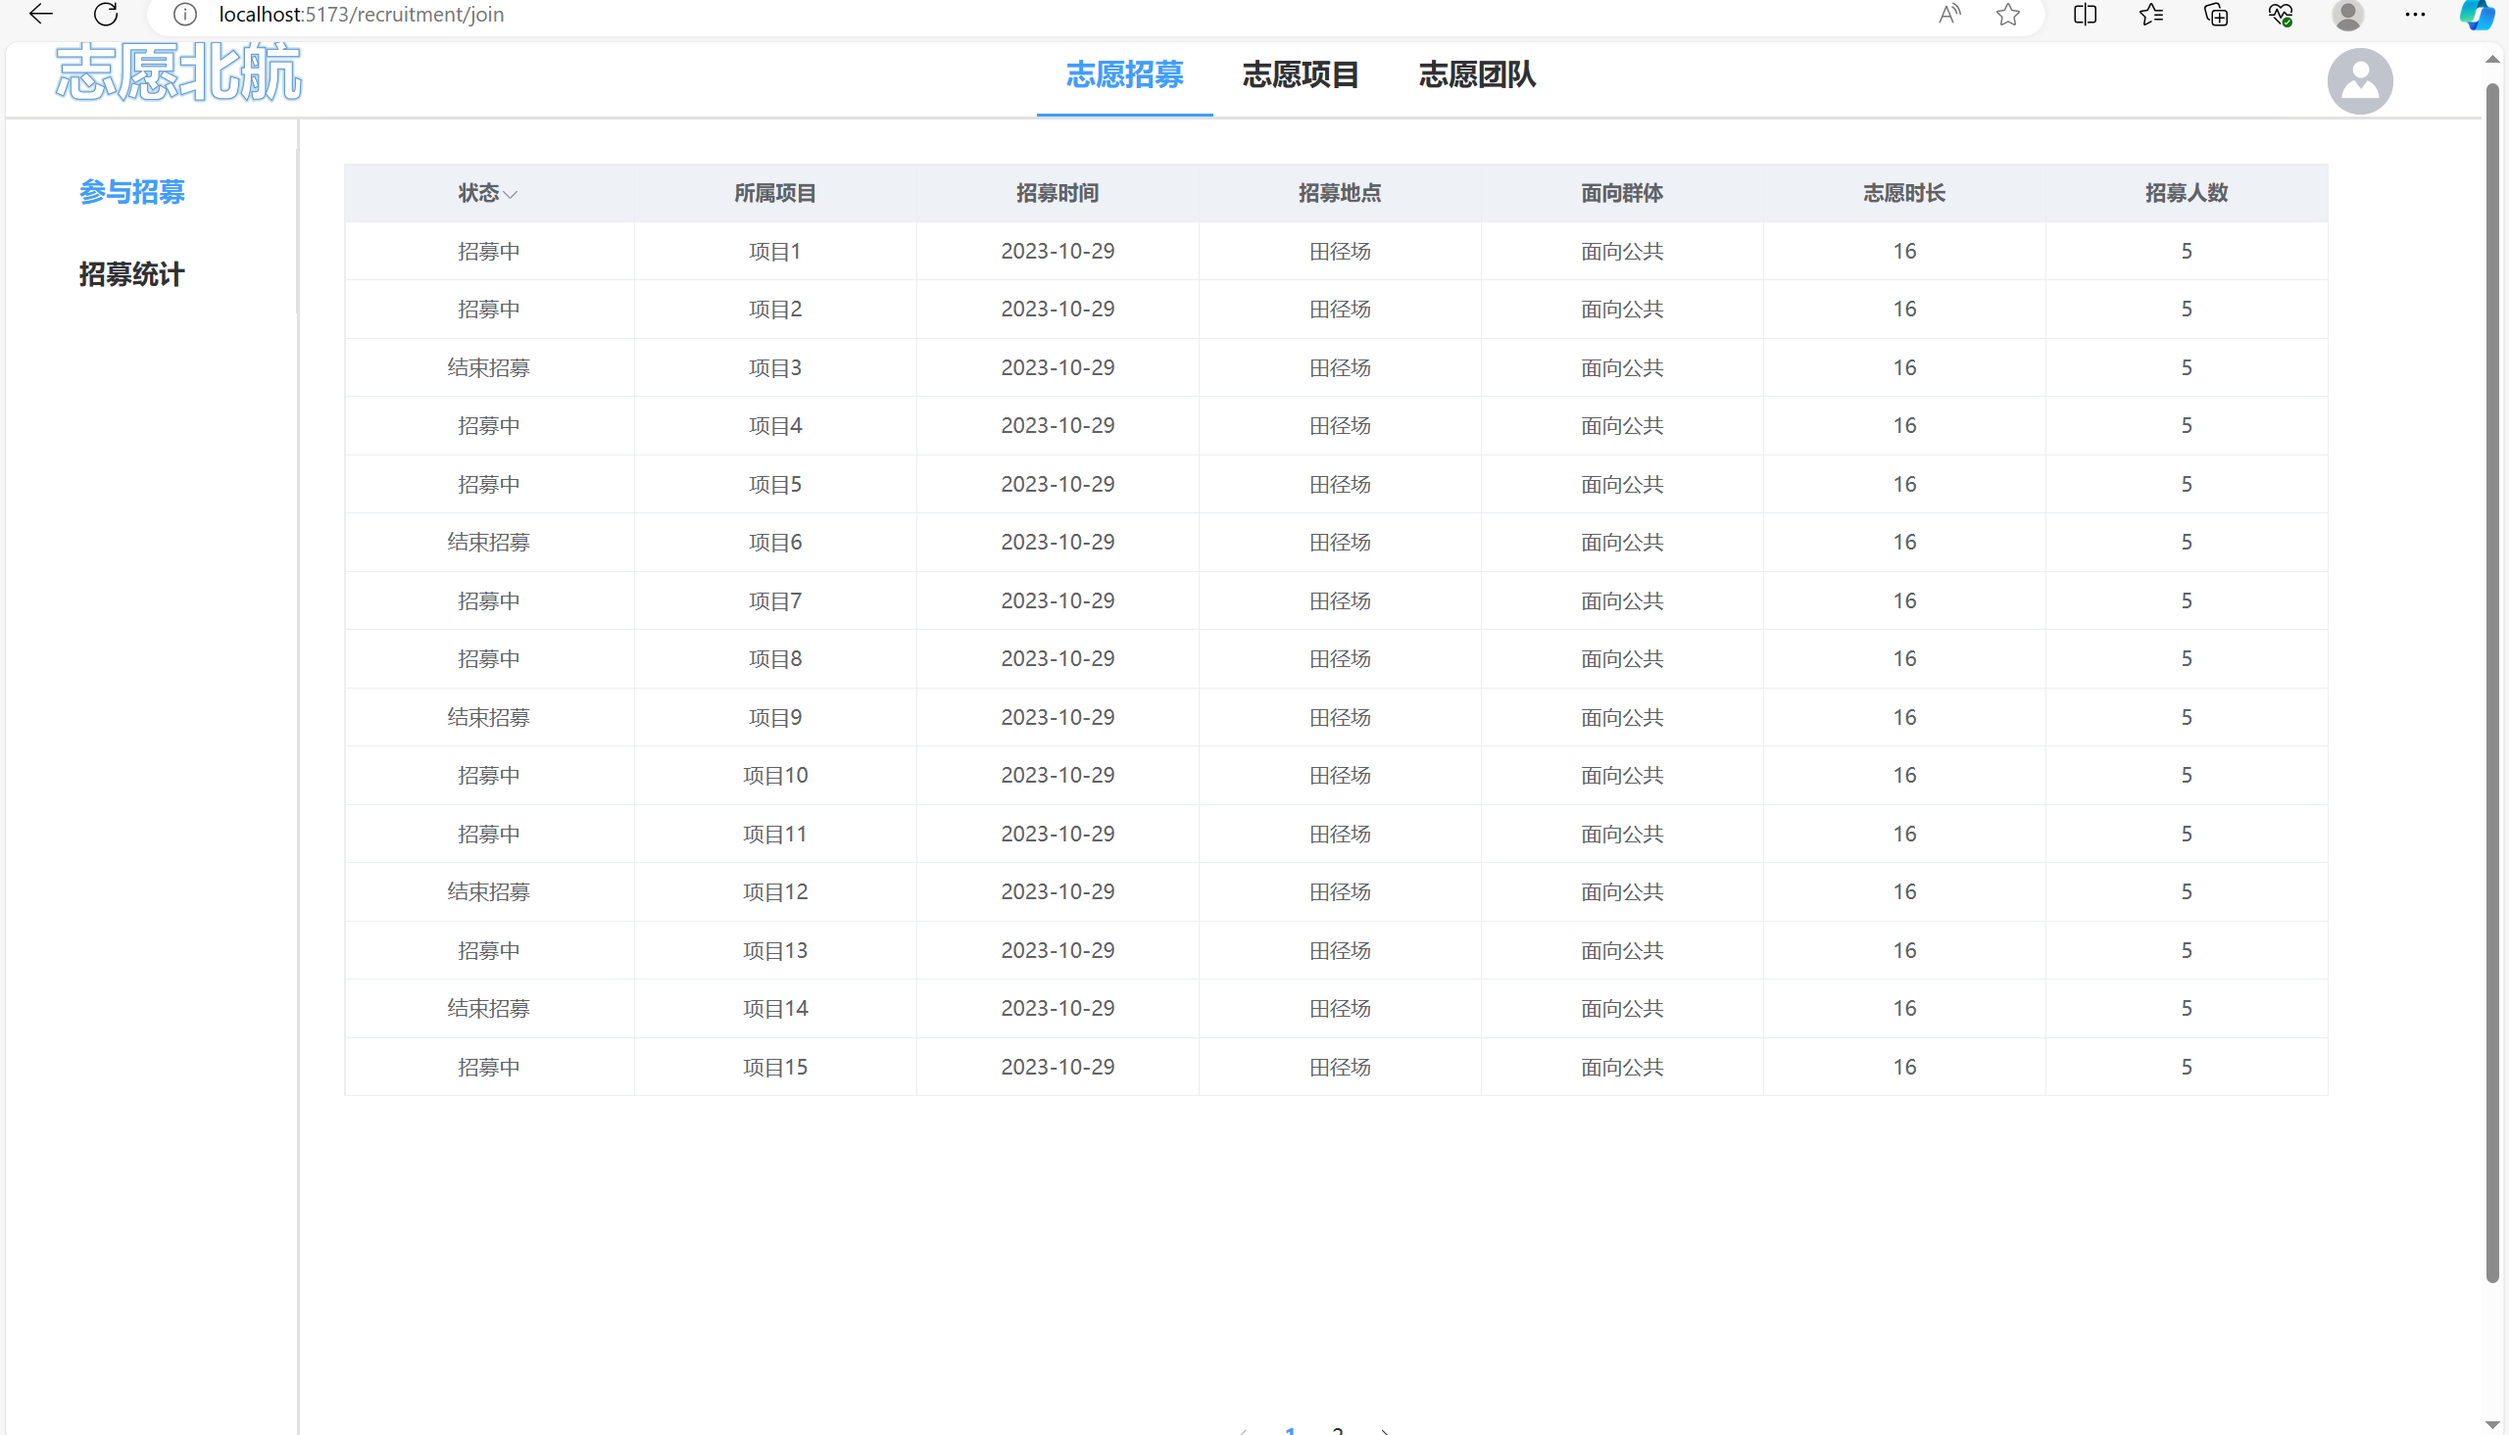
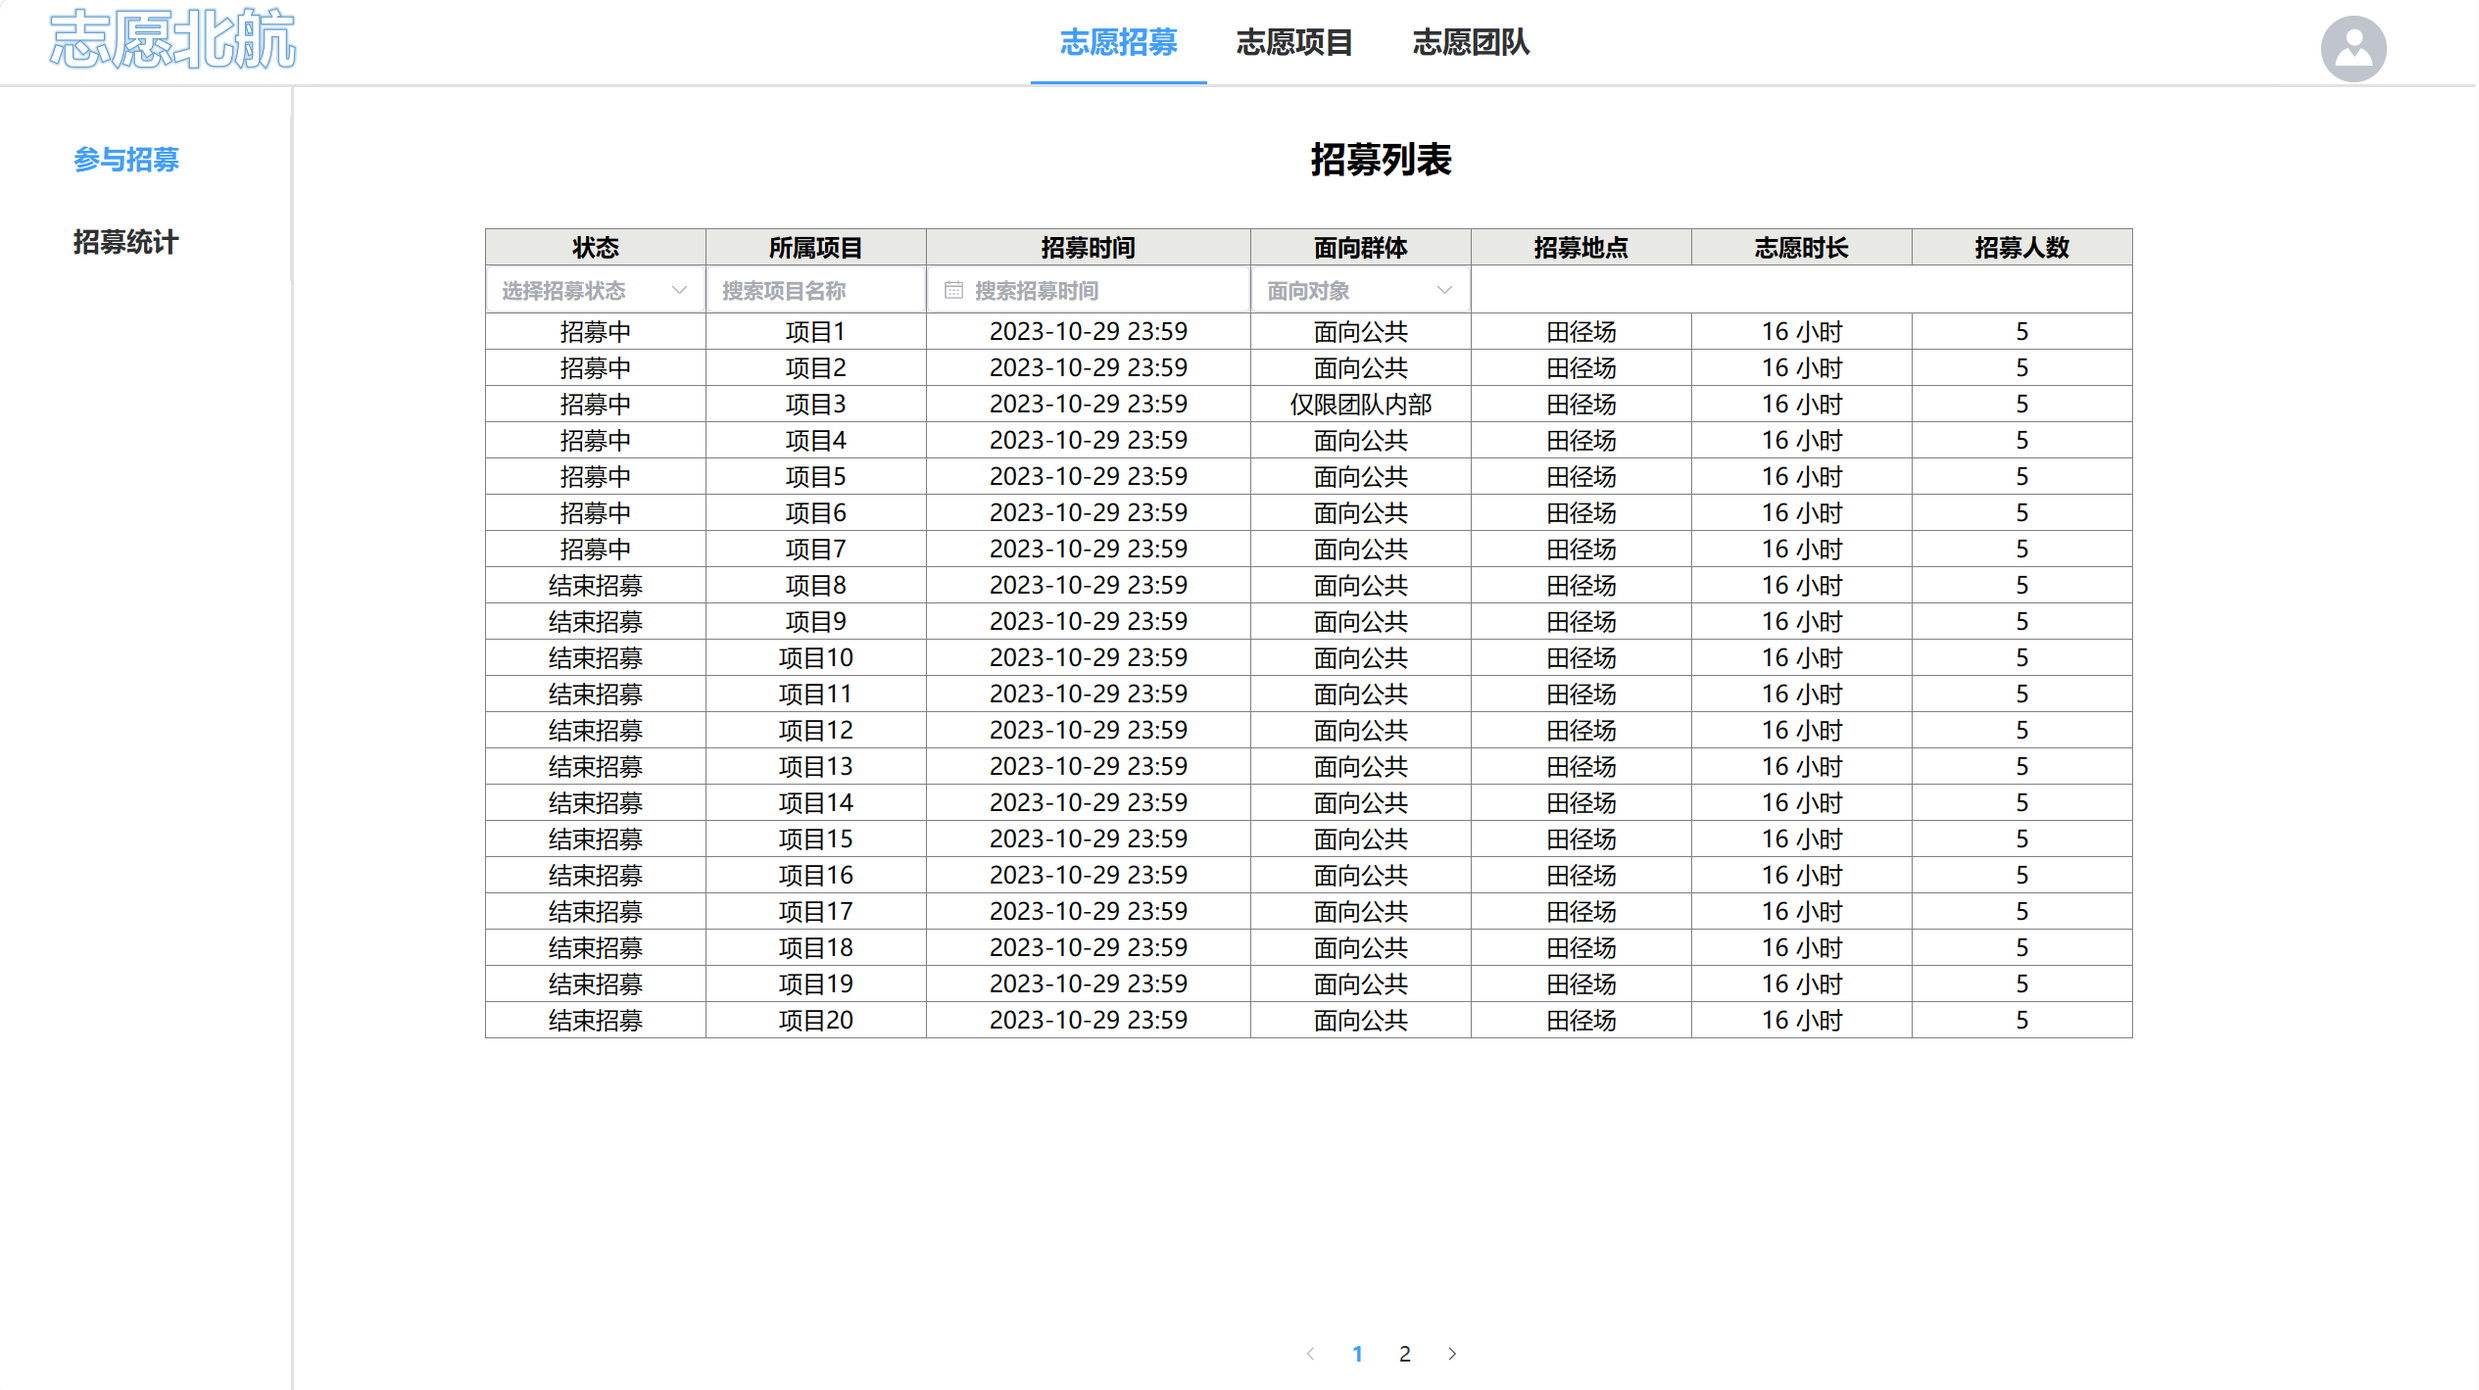
重构了“参加招募页”的样式（尚未美化），正在实现过滤功能

diff --git a/frontend/src/views/JoinRecruitmentPage.vue b/frontend/src/views/JoinRecruitmentPage.vue
@@ -12,33 +12,63 @@
         </div>
         <div class="content-container">
             <div class="table-container">
+                <h2 class="title">招募列表</h2>
                 <div class="recruitments-container">
-                    <el-table
-                        :data="this.displayedList" border
-                        :header-cell-style="{background:'#eef1f6', color:'#606266'}"
-                        @row-click="handleRowClick"
-                    >
-
-                        <el-table-column prop="status" label="状态" align="center" ></el-table-column>
-        
-                        <el-table-column prop="project" label="所属项目" align="center"></el-table-column>
-                        
-                        <el-table-column prop="date" label="招募时间" align="center"></el-table-column>
-
-                        <el-table-column prop="location" label="招募地点" align="center"></el-table-column>
-        
-                        <el-table-column prop="type" label="面向群体" align="center"></el-table-column>
-
-                        <el-table-column prop="hours" label="志愿时长" align="center"></el-table-column>
-        
-                        <el-table-column prop="totalNumber" label="招募人数" align="center"></el-table-column>   
-                               
-                    </el-table>
+                    <table class="table-style" border>
+                        <thead>
+                            <tr>
+                                <th style="background-color: #e8e8e4">状态</th>
+                                <th style="background-color: #e8e8e4">所属项目</th>
+                                <th style="background-color: #e8e8e4">招募时间</th>
+                                <th style="background-color: #e8e8e4">面向群体</th>
+                                <th style="background-color: #e8e8e4">招募地点</th>
+                                <th style="background-color: #e8e8e4">志愿时长</th>
+                                <th style="background-color: #e8e8e4">招募人数</th>
+                            </tr>
+                            <tr>
+                                <th style="width: 150px;">
+                                    <el-select v-model="status" clearable placeholder="选择招募状态">
+                                        <el-option key="招募中" value="招募中">招募中</el-option>
+                                        <el-option key="结束招募" value="结束招募">结束招募</el-option>
+                                    </el-select>
+                                </th>
+                                <th style="width: 150px;">
+                                    <el-input v-model="keyword" placeholder="搜索项目名称" clearable></el-input>
+                                </th>
+                                <th style="width: 200px;">
+                                    <el-date-picker
+                                    v-model="date"
+                                    type="date"
+                                    placeholder="搜索招募时间"
+                                    clearable
+                                ></el-date-picker>
+                                </th>
+                                <th style="width: 150px;">
+                                    <el-select v-model="type" placeholder="面向对象" clearable>
+                                        <el-option key="面向公共招募" value="面向公共招募">面向公共招募</el-option>
+                                        <el-option key="仅限团队内部" value="仅限团队内部">仅限团队内部</el-option>
+                                    </el-select>
+                                </th>
+                                <th colspan="3" style="width: 450px;"></th>
+                            </tr>
+                        </thead>
+                        <tbody>
+                            <tr v-for="item in displayedList" @click="handleClickRow(item)">
+                                <td style="text-align:center">{{ item.status }}</td>
+                                <td style="text-align:center">{{ item.project }}</td>
+                                <td style="text-align:center">{{ item.date }}</td>
+                                <td style="text-align:center">{{ item.type }}</td>
+                                <td style="text-align:center">{{ item.location }}</td>
+                                <td style="text-align:center">{{ item.hours }} 小时</td>
+                                <td style="text-align:center">{{ item.number }}</td>
+                            </tr>
+                        </tbody>
+                    </table>
                 </div>
                 <div class="pagination-container">
                     <el-pagination 
                         @current-change="handlePageChange"
-                        :page-size="15"
+                        :page-size="20"
                         :total="totalList.length"
                         layout="prev, pager, next">
                     </el-pagination>
@@ -54,47 +84,55 @@ export default {
     data() {
         return {
             currentPage: 1,
+            status: null,
+            keyword: null,
+            date: null,
+            type: null,
+            hours: null,
             totalList: [
                 {status: "招募中", project: "项目1", date: "2023-10-29 23:59", location: "田径场", type: "面向公共", hours: 16, number: 5, totalNumber: 10},
                 {status: "招募中", project: "项目2", date: "2023-10-29 23:59", location: "田径场", type: "面向公共", hours: 16, number: 5, totalNumber: 10},
-                {status: "结束招募", project: "项目3", date: "2023-10-29 23:59", location: "田径场", type: "面向公共", hours: 16, number: 5, totalNumber: 10},
+                {status: "招募中", project: "项目3", date: "2023-10-29 23:59", location: "田径场", type: "仅限团队内部", hours: 16, number: 5, totalNumber: 10},
                 {status: "招募中", project: "项目4", date: "2023-10-29 23:59", location: "田径场", type: "面向公共", hours: 16, number: 5, totalNumber: 10},
                 {status: "招募中", project: "项目5", date: "2023-10-29 23:59", location: "田径场", type: "面向公共", hours: 16, number: 5, totalNumber: 10},
-                {status: "结束招募", project: "项目6", date: "2023-10-29 23:59", location: "田径场", type: "面向公共", hours: 16, number: 5, totalNumber: 10},
+                {status: "招募中", project: "项目6", date: "2023-10-29 23:59", location: "田径场", type: "面向公共", hours: 16, number: 5, totalNumber: 10},
                 {status: "招募中", project: "项目7", date: "2023-10-29 23:59", location: "田径场", type: "面向公共", hours: 16, number: 5, totalNumber: 10},
-                {status: "招募中", project: "项目8", date: "2023-10-29 23:59", location: "田径场", type: "面向公共", hours: 16, number: 5, totalNumber: 10},
+                {status: "结束招募", project: "项目8", date: "2023-10-29 23:59", location: "田径场", type: "面向公共", hours: 16, number: 5, totalNumber: 10},
                 {status: "结束招募", project: "项目9", date: "2023-10-29 23:59", location: "田径场", type: "面向公共", hours: 16, number: 5, totalNumber: 10},
-                {status: "招募中", project: "项目10", date: "2023-10-29 23:59", location: "田径场", type: "面向公共", hours: 16, number: 5, totalNumber: 10},
-                {status: "招募中", project: "项目11", date: "2023-10-29 23:59", location: "田径场", type: "面向公共", hours: 16, number: 5, totalNumber: 10},
+                {status: "结束招募", project: "项目10", date: "2023-10-29 23:59", location: "田径场", type: "面向公共", hours: 16, number: 5, totalNumber: 10},
+                {status: "结束招募", project: "项目11", date: "2023-10-29 23:59", location: "田径场", type: "面向公共", hours: 16, number: 5, totalNumber: 10},
                 {status: "结束招募", project: "项目12", date: "2023-10-29 23:59", location: "田径场", type: "面向公共", hours: 16, number: 5, totalNumber: 10},
-                {status: "招募中", project: "项目13", date: "2023-10-29 23:59", location: "田径场", type: "面向公共", hours: 16, number: 5, totalNumber: 10},
+                {status: "结束招募", project: "项目13", date: "2023-10-29 23:59", location: "田径场", type: "面向公共", hours: 16, number: 5, totalNumber: 10},
                 {status: "结束招募", project: "项目14", date: "2023-10-29 23:59", location: "田径场", type: "面向公共", hours: 16, number: 5, totalNumber: 10},
-                {status: "招募中", project: "项目15", date: "2023-10-29 23:59", location: "田径场", type: "面向公共", hours: 16, number: 5, totalNumber: 10},
-                {status: "招募中", project: "项目16", date: "2023-10-29 23:59", location: "田径场", type: "面向公共", hours: 16, number: 5, totalNumber: 10},
+                {status: "结束招募", project: "项目15", date: "2023-10-29 23:59", location: "田径场", type: "面向公共", hours: 16, number: 5, totalNumber: 10},
+                {status: "结束招募", project: "项目16", date: "2023-10-29 23:59", location: "田径场", type: "面向公共", hours: 16, number: 5, totalNumber: 10},
                 {status: "结束招募", project: "项目17", date: "2023-10-29 23:59", location: "田径场", type: "面向公共", hours: 16, number: 5, totalNumber: 10},
-                {status: "招募中", project: "项目18", date: "2023-10-29 23:59", location: "田径场", type: "面向公共", hours: 16, number: 5, totalNumber: 10},
-                {status: "招募中", project: "项目19", date: "2023-10-29 23:59", location: "田径场", type: "面向公共", hours: 16, number: 5, totalNumber: 10},
+                {status: "结束招募", project: "项目18", date: "2023-10-29 23:59", location: "田径场", type: "面向公共", hours: 16, number: 5, totalNumber: 10},
+                {status: "结束招募", project: "项目19", date: "2023-10-29 23:59", location: "田径场", type: "面向公共", hours: 16, number: 5, totalNumber: 10},
+                {status: "结束招募", project: "项目20", date: "2023-10-29 23:59", location: "田径场", type: "面向公共", hours: 16, number: 5, totalNumber: 10},
+                {status: "结束招募", project: "项目21", date: "2023-10-29 23:59", location: "田径场", type: "仅限团队内部", hours: 16, number: 5, totalNumber: 10},
+                {status: "结束招募", project: "项目22", date: "2023-10-29 23:59", location: "田径场", type: "面向公共", hours: 16, number: 5, totalNumber: 10},
+                {status: "结束招募", project: "项目23", date: "2023-10-29 23:59", location: "田径场", type: "面向公共", hours: 16, number: 5, totalNumber: 10},
+                {status: "结束招募", project: "项目", date: "2023-10-29 23:59", location: "田径场", type: "面向公共", hours: 16, number: 5, totalNumber: 10},
             ],
             selectedRow: null,
         }
     },
     computed: {
         displayedList() {
-            let startIndex = (this.currentPage - 1) * 15;
-            return this.totalList.slice(startIndex, startIndex + 15);
+            let startIndex = (this.currentPage - 1) * 20;
+            return this.totalList.slice(startIndex, startIndex + 20);
+        },
+        filterdList() {
+            
         }
     },
     methods: {
         getStatusClass(status) {
             return status === '招募中' ? "green-border" : "red-border";
         },
-        handleRowClick(row) {
-            this.selectedRow = row;
-            console.log("click!!!");
-            console.log(this.selectedRow.status, 
-                this.selectedRow.project, this.selectedRow.date, 
-                this.selectedRow.location, this.selectedRow.type, 
-                this.selectedRow.hours, this.selectedRow.number);
+        handleClickRow(row) {
+            console.log(row.status, row.project, row.date, row.location, row.type, row.hours, row.number);
         },
         handlePageChange(currentPage) {
             this.currentPage = currentPage;
@@ -145,19 +183,32 @@ export default {
     flex-direction: column;
 }
 
+.title {
+    margin-top: 30px;
+}
+
+.table-style {
+    border-collapse: collapse;
+}
+
 .recruitments-container {
     display: flex;
     flex-wrap: wrap;
     justify-content: flex-start;
     align-content: flex-start;
     margin-top: 30px;
-    margin-left: 30px;
+    margin-left: 130px;
     height: 700px;
     width: 1350px;
 }
 
+.table-container {
+    width: 100%;
+}
+
 .pagination-container {
     margin-top: 50px;
+    margin-bottom: 50px;
 }
 
 .green-border {
